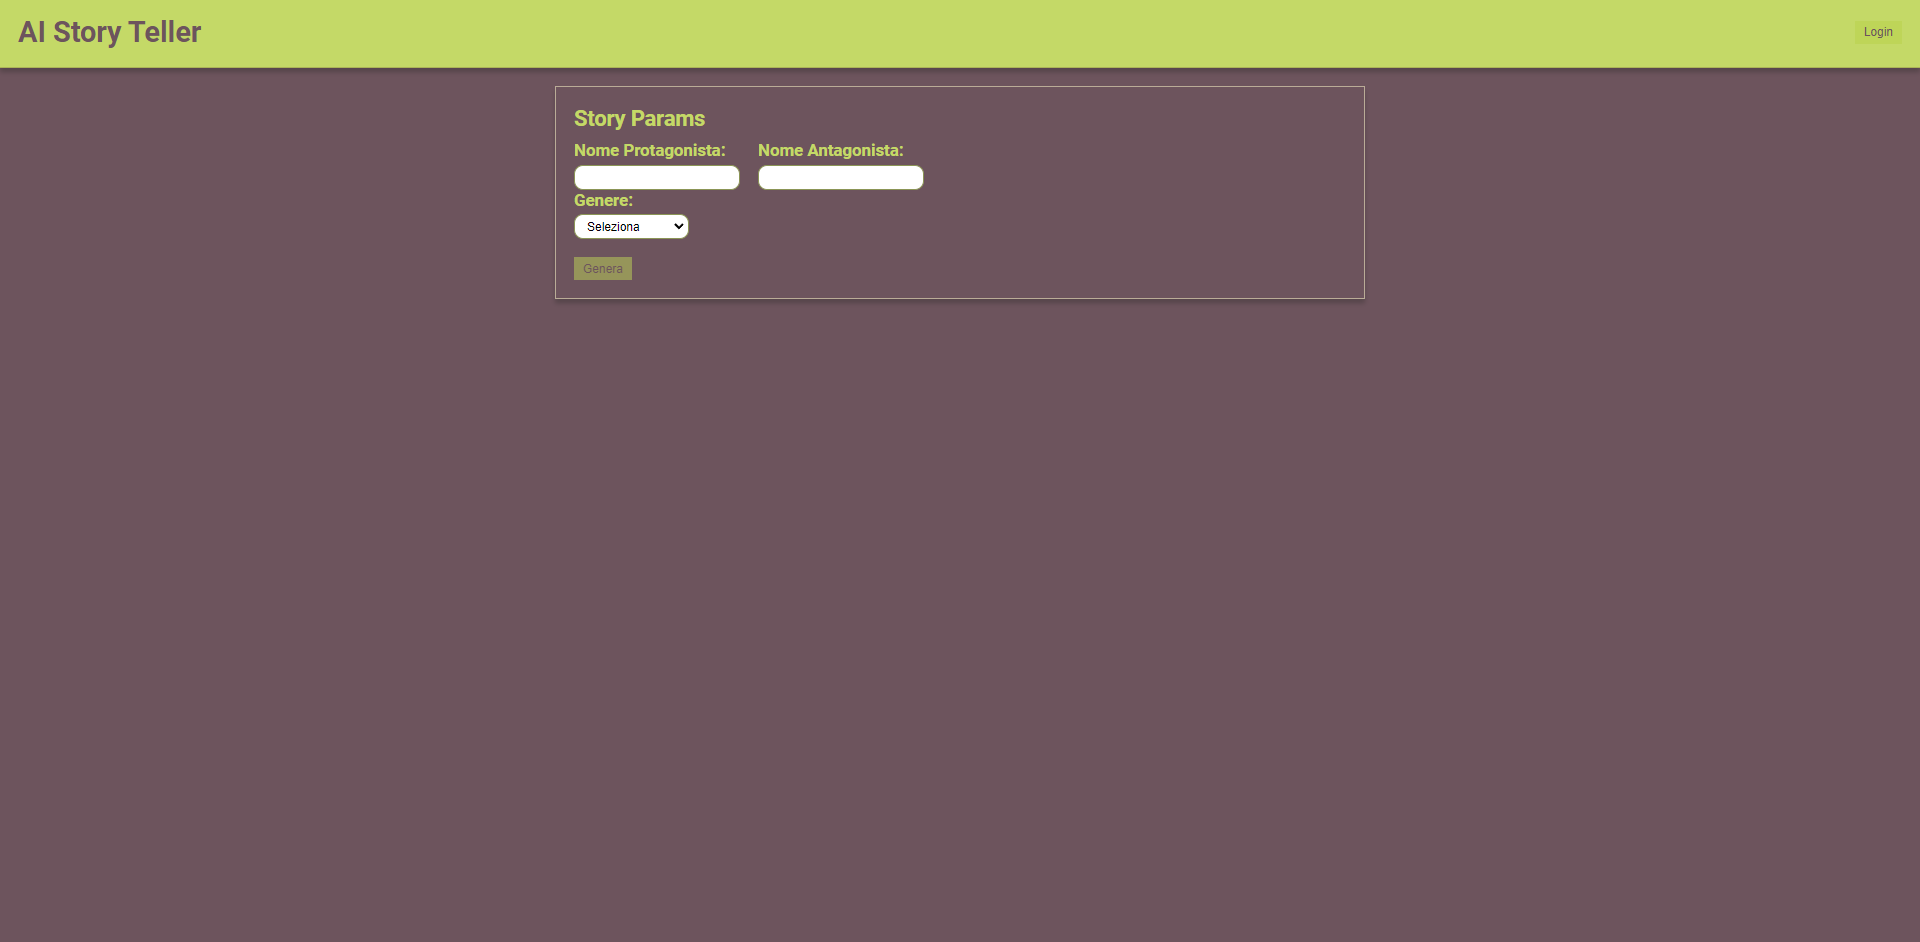
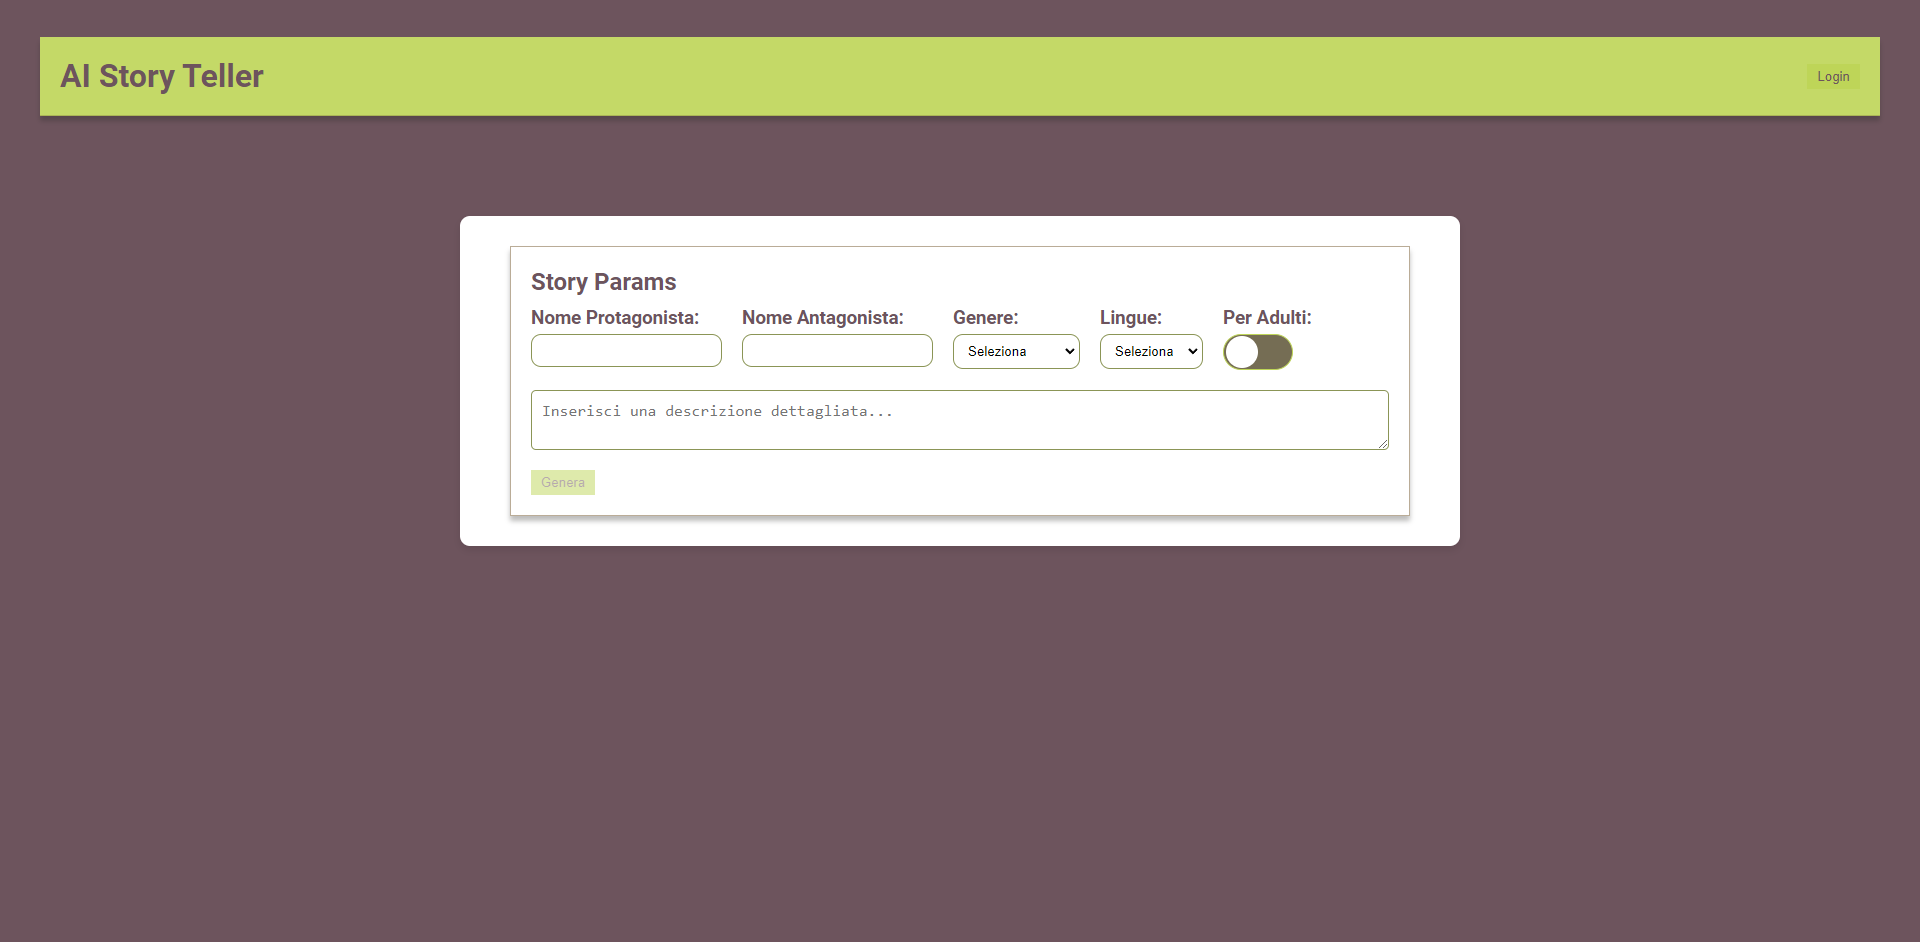
feat: commit 05-09-24

Changed region(s): [[0.0, 0.0, 1.0, 0.5849]]

diff --git a/src/pages/index.tsx b/src/pages/index.tsx
@@ -34,8 +34,7 @@ export default function Home() {
     setError(false);
     const prompt = `genera un racconto ${genere} per ${
       pegi18 ? "adulti" : "bambini"
-    }, con il protagonista chiamato ${protagonista} e 
-    l'antagonista chiamato ${antagonista}, in lingua ${lingue}.`;
+    }, con il protagonista chiamato ${protagonista} e l'antagonista chiamato ${antagonista}, in lingua ${lingue}.`;
 
     if (
       protagonista.trim().length > 0 &&

diff --git a/README.md b/README.md
@@ -1,20 +1,26 @@
-# My E-Commerce Project
+# AI Story Teller
 
 ![Screenshot](./Screenshot.png)
+![Screenshot1](./Screenshot1.png)
 
 ## 🚀 Panoramica del Progetto
 
-**My E-Commerce** è una semplice applicazione e-commerce costruita con un approccio atomic design.  Il progetto dimostra l'utilizzo di React, Next.js, SCSS, e altre tecnologie moderne per creare un'app scalabile e riutilizzabile.
+AI Story Teller è un'applicazione che genera racconti personalizzati utilizzando l'intelligenza artificiale. Gli utenti possono inserire nomi di protagonisti e antagonisti, scegliere il genere del racconto e la lingua, e decidere se il racconto è per adulti o bambini. Il progetto sfrutta tecnologie moderne come React e Next.js per creare un'esperienza utente interattiva e dinamica.
 
 ### Funzionalità Principali
 
+- **Generazione di Racconti Personalizzati**: Crea racconti unici inserendo i dettagli del protagonista, antagonista, genere e lingua.
+- **Controllo per Adulti/Bambini**: Usa uno switch per selezionare se il racconto è destinato a un pubblico adulto o per bambini.
+- **Sintesi Vocale**: Ascolta il racconto generato utilizzando voci selezionabili (maschio, femmina, bambino).
+- **Interfaccia Reattiva**: L'applicazione è ottimizzata per dispositivi mobili con un layout adattabile.
+- **Notifiche Toast**: Mostra feedback agli utenti in modo elegante utilizzando notifiche stile toast.
 
 ## 🛠 Tecnologie Utilizzate
 
 - **React**: Per costruire l'interfaccia utente e gestire lo stato dell'applicazione.
 - **Next.js**: Per la gestione delle pagine e della navigazione lato server.
-- **SCSS**: Per la stilizzazione dell'applicazione e utilizzo di mixin e funzioni.
-- **CSS Modules**: Per uno styling modulare e locale.
+- **SCSS**: Per la stilizzazione dell'applicazione con l'uso di mixin e funzioni.
+- **CSS Modules**: Per uno styling modulare e locale che evita conflitti di stile.
 
 ![Create-Palette](./Create-Palette.png)
 
@@ -23,44 +29,30 @@
 src/
 ├── components/
 │   ├── Atoms/
-│   │   └── Button/
-│   │   │   ├── Button.module.scss
-│   │   │   └── Button.tsx
-|   │   └── Input/
-│   │       ├── Input.module.scss
-│   │       └── Input.tsx
-    │   └── Switch/
-│   │       ├── Switch.module.scss
-│   │       └── Switch.tsx
+│   │   ├── Button/
+│   │   ├── Input/
+│   │   ├── Switch/
+│   │   └── Toast/
 │   ├── Molecules/
 │   │   ├── Header/
-│   │   │   ├── Header.module.scss
-│   │   │   └── Header.tsx
-│   │   └── SelectBox/
-│   │       ├── SelectBox.module.scss
-│   │       └── SelectBox.tsx
+│   │   ├── SelectBox/
 │   │   └── SwitchBox/
-│   │       ├── SwitchBox.module.scss
-│   │       └── SwitchBox.tsx
 │   └── Organism/
 │       └── WindowBox/
-│           ├── WindowBox.module.scss
-│           └── WindowBox.tsx
 ├── constants/
 │   └── common.ts
 ├── pages/
-│   └── api/
-│       └── hello.ts
-│       ├── index.tsx
-│       ├── _app.tsx
-│       ├── _document.tsx
-│       └── index.tsx
+│   ├── api/
+│   │   └── hello.ts
+│   ├── index.tsx
+│   ├── _app.tsx
+│   ├── _document.tsx
 ├── styles/
-│   └── default/
-│       ├── _functions.scss
-│       ├── _mixins.scss
-│       ├── index.scss
-│       └── globals.scss
+│   ├── default/
+│   │   ├── _functions.scss
+│   │   ├── _mixins.scss
+│   │   ├── index.scss
+│   │   └── globals.scss
 │   └── Home.module.css
 ├── types/
 │   └── common.ts
@@ -70,6 +62,35 @@ src/
 ├── LICENSE
 └── next-env.d.ts
 
+
+## 🌟 Miglioramenti Previsti
+
+- **Switch per Bambini/Adulti**: Aggiunta di un componente switch per selezionare tra bambino/adulto e condizionare l'output dei racconti.
+- **Hamburger Menu**: Implementazione di un menu mobile-friendly per una navigazione intuitiva.
+- **Carousel**: Creazione di un carousel per mostrare più prodotti o storie in una slider dinamica.
+
+## 🛠 Installazione
+
+1. Clona il repository:
+    ```bash
+    git clone https://github.com/tuo-username/ai-story-teller.git
+    ```
+2. Installa le dipendenze:
+    ```bash
+    npm install
+    ```
+3. Avvia l'applicazione:
+    ```bash
+    npm run dev
+    ```
+
+## 🌐 Demo Online
+
+Visita la demo del progetto: [AI Story Teller](https://ai-story-teller-xi.vercel.app/)
+
+## 📜 Licenza
+
+Questo progetto è rilasciato sotto la licenza MIT. Vedi il file [LICENSE](./LICENSE) per maggiori dettagli.
 
 <!--
 V metodi e mixin sass
@@ -83,7 +104,6 @@ V api browser
 - carousel
 
 ✨ Miglioramenti 
-Implementare lo switch: Aggiungere un componente switch per selezionare tra bambino/adulto e condizionare l'output.
 Aggiungere Hamburger Menu: Creare un menu mobile friendly per la navigazione.
 Inserire un Carousel: Mostrare più prodotti in una slider dinamica.
 
